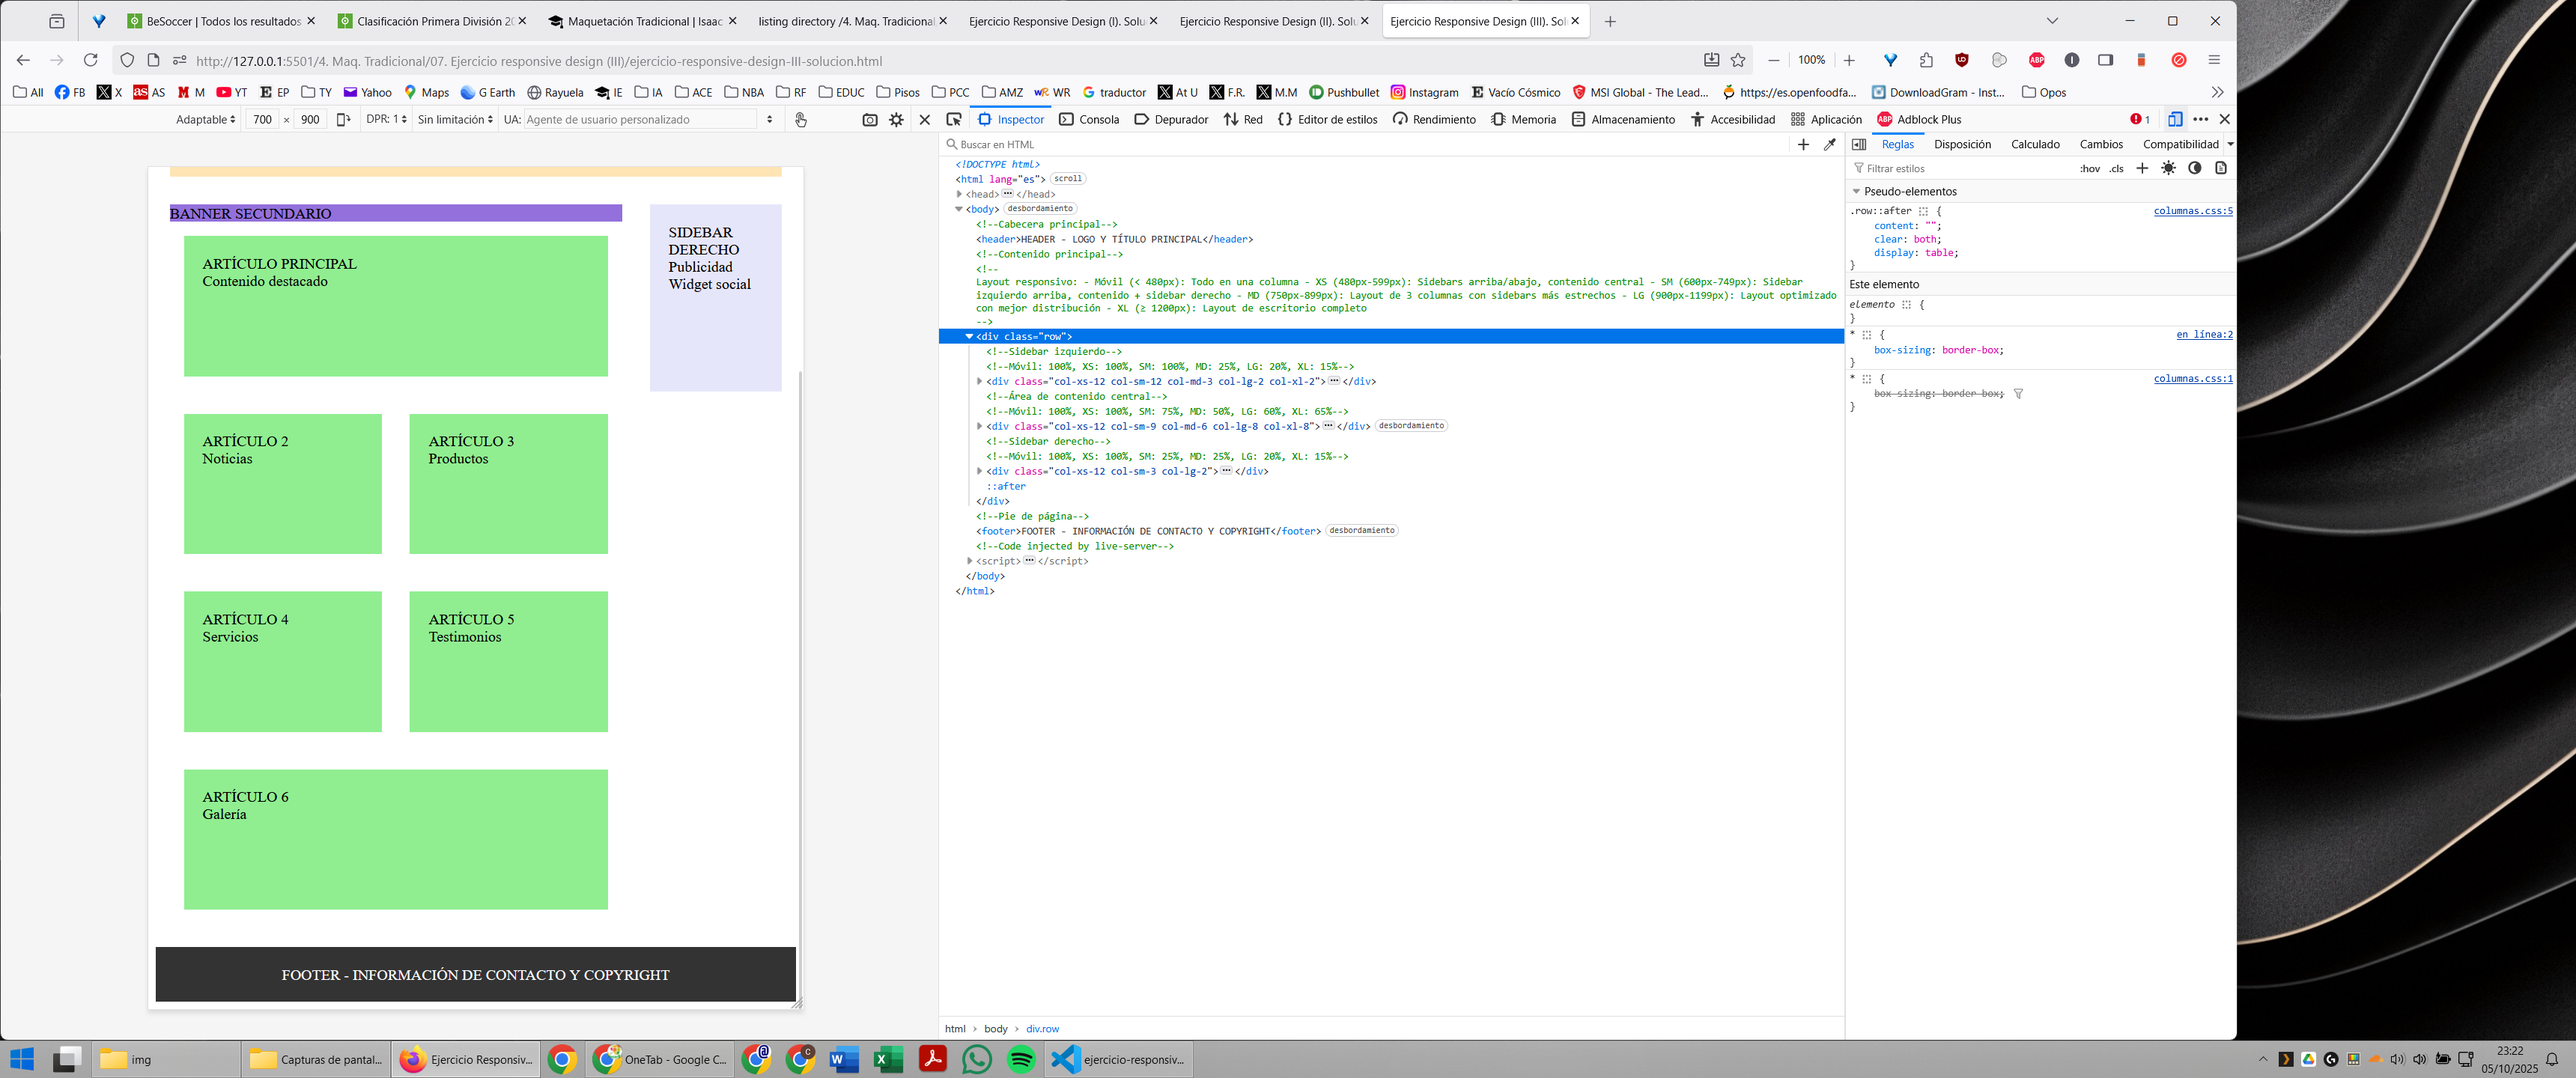
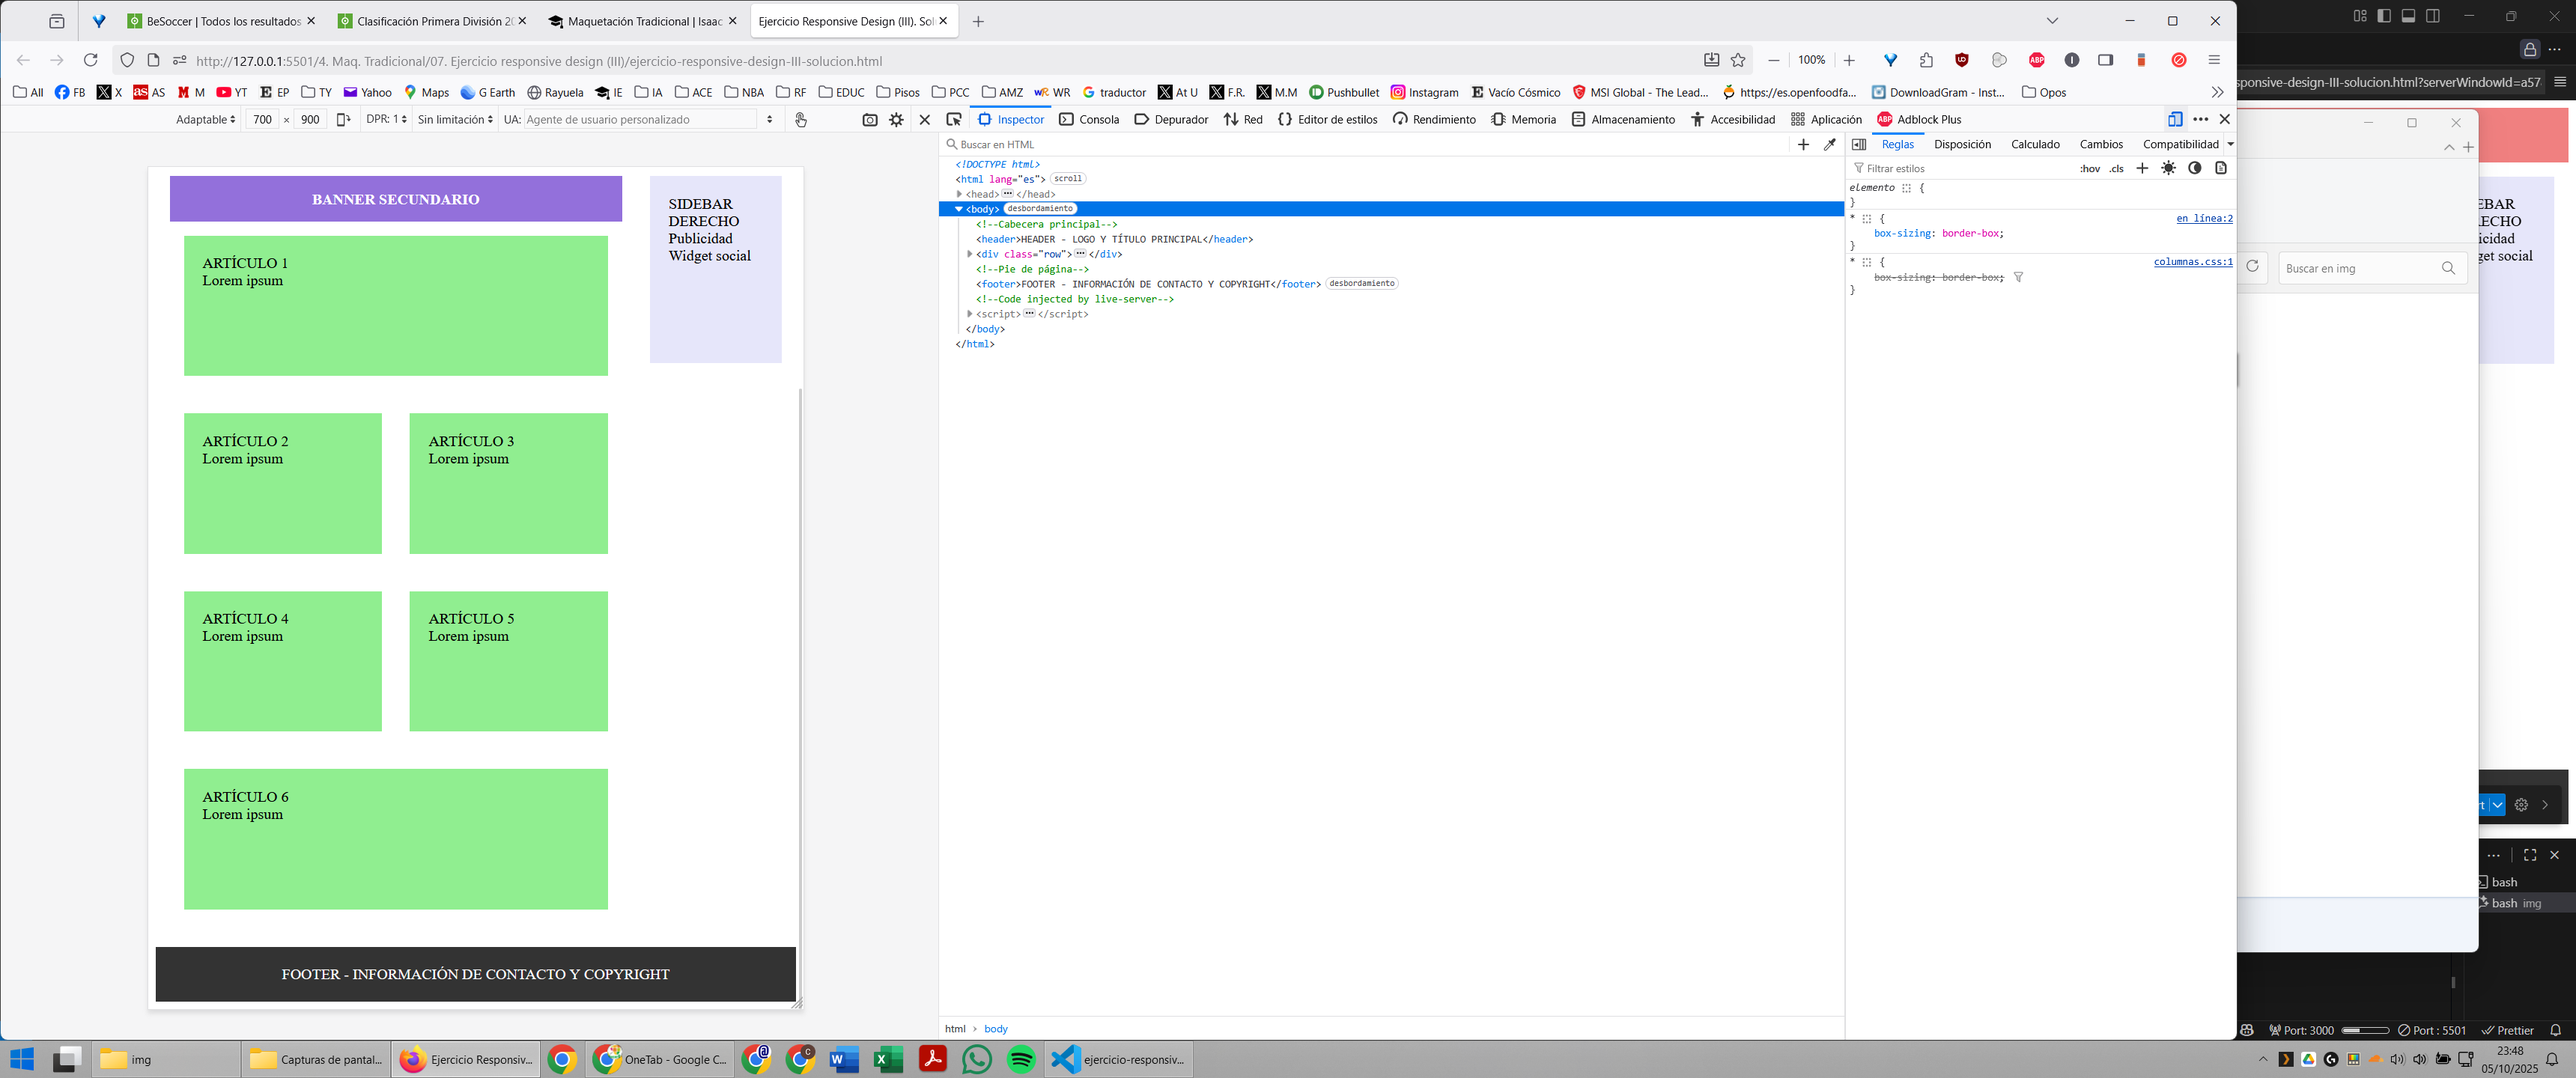
Actualiza el diseño del archivo ejercicio-responsive-design-III.html. Añade nuevas imágenes

diff --git a/4. Maq. Tradicional/07. Ejercicio responsive design (III)/ejercicio-responsive-design-III.html b/4. Maq. Tradicional/07. Ejercicio responsive design (III)/ejercicio-responsive-design-III.html
@@ -12,19 +12,6 @@
       box-sizing: border-box;
     }
 
-    body {
-      margin: 0;
-      font-family: Arial, sans-serif;
-    }
-
-    .top-bar {
-      background-color: #333;
-      color: white;
-      padding: 10px;
-      text-align: center;
-      font-size: 12px;
-    }
-
     header {
       background-color: lightcoral;
       padding: 20px;
@@ -60,7 +47,7 @@
     }
 
     .banner {
-      background-color: #FFA500;
+      background-color: #9370DB;
       padding: 15px;
       text-align: center;
       color: white;
@@ -77,69 +64,22 @@
 </head>
 
 <body>
-  <!-- Barra superior fija -->
-  <div class="top-bar">BARRA SUPERIOR - OFERTAS ESPECIALES</div>
 
-  <!-- Cabecera principal -->
   <header>HEADER - LOGO Y TÍTULO PRINCIPAL</header>
 
-  <!-- Navegación -->
-  <nav>NAVEGACIÓN PRINCIPAL</nav>
+  <aside class="sidebar-left">SIDEBAR IZQUIERDO<br>Menú secundario</aside>
 
-  <!-- Banner promocional -->
-  <div class="banner">BANNER PROMOCIONAL</div>
+  <div class="banner">BANNER SECUNDARIO</div>
 
-  <!-- Contenido principal -->
-  <div class="row">
+  <article>ARTÍCULO 1<br>Lorem ipsum</article>
+  <article>ARTÍCULO 2<br>Lorem ipsum</article>
+  <article>ARTÍCULO 3<br>Lorem ipsum</article>
+  <article>ARTÍCULO 4<br>Lorem ipsum</article>
+  <article>ARTÍCULO 5<br>Lorem ipsum</article>
+  <article>ARTÍCULO 6<br>Lorem ipsum</article>
 
-    <!-- Sidebar izquierdo -->
-    <div>
-      <aside class="sidebar-left">SIDEBAR IZQUIERDO<br>Menú secundario</aside>
-    </div>
-
-    <!-- Área de contenido central -->
-    <div>
-
-      <!-- Banner secundario -->
-      <div class="banner" style="background-color: #9370DB;">BANNER SECUNDARIO</div>
-
-      <!-- Contenido principal con artículos -->
-      <div class="row">
-        <div>
-          <article>ARTÍCULO PRINCIPAL<br>Contenido destacado</article>
-        </div>
-
-        <div>
-          <article>ARTÍCULO 2<br>Noticias</article>
-        </div>
-
-        <div>
-          <article>ARTÍCULO 3<br>Productos</article>
-        </div>
-
-        <div>
-          <article>ARTÍCULO 4<br>Servicios</article>
-        </div>
-
-        <div>
-          <article>ARTÍCULO 5<br>Testimonios</article>
-        </div>
-
-        <div>
-          <article>ARTÍCULO 6<br>Galería</article>
-        </div>
-      </div>
-
-    </div>
-
-    <!-- Sidebar derecho -->
-    <div>
-      <aside class="sidebar-right">SIDEBAR DERECHO<br>Publicidad<br>Widget social</aside>
-    </div>
-
-  </div>
-
-  <!-- Pie de página -->
+  <aside class="sidebar-right">SIDEBAR DERECHO<br>Publicidad<br>Widget social</aside>
+  
   <footer>FOOTER - INFORMACIÓN DE CONTACTO Y COPYRIGHT</footer>
 
 </body>
